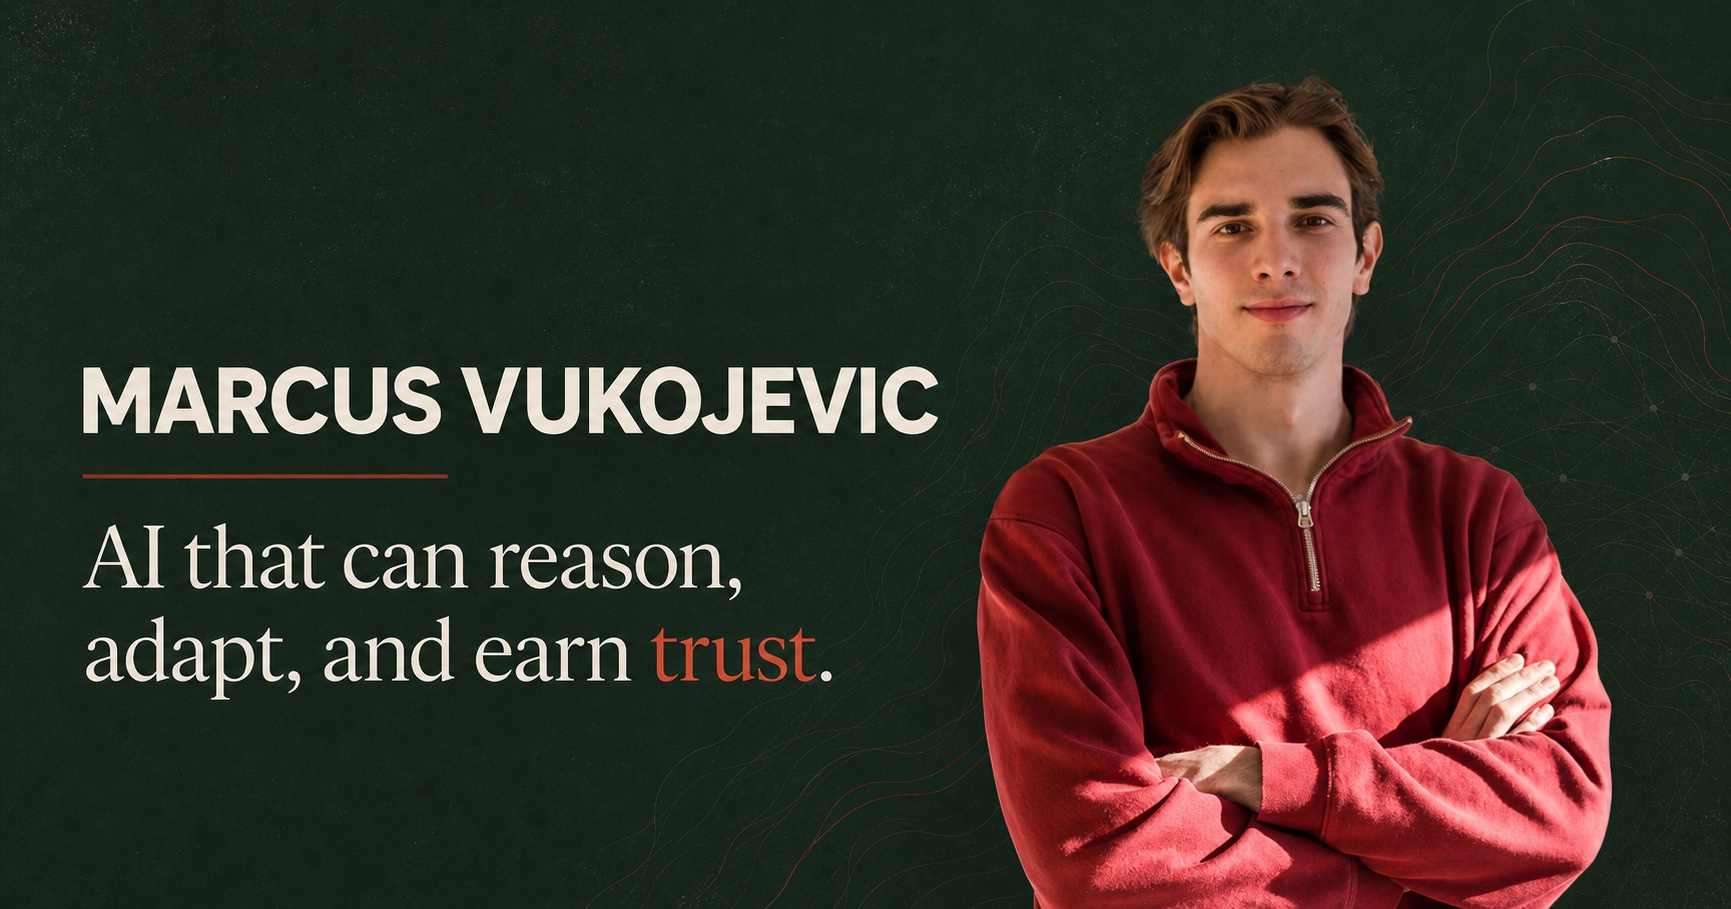
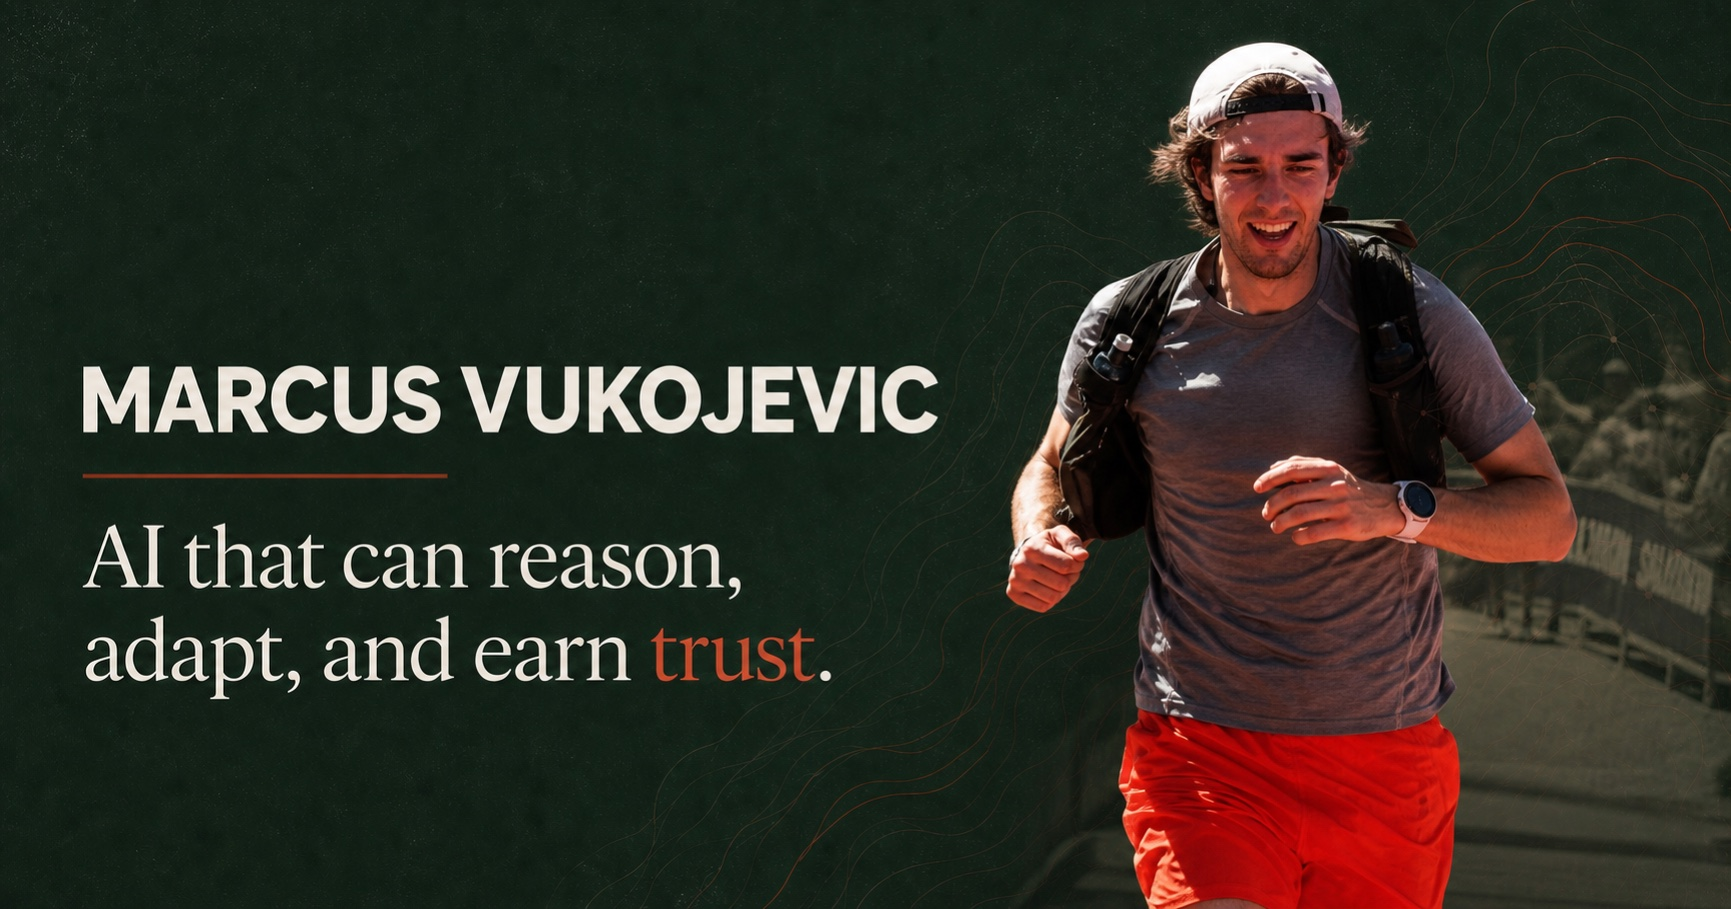
gj

diff --git a/_sass/layout/_marcus.scss b/_sass/layout/_marcus.scss
@@ -1,5 +1,5 @@
 /* ==========================================================================
-   MARCUS VUKOJEVIC — PERSONAL SITE
+   MARCUS VUKOJEVIC - PERSONAL SITE
    ========================================================================== */
 
 :root {
@@ -301,6 +301,20 @@ body {
   span { color: var(--mv-accent); font-weight: 800; }
 }
 
+.mv-home-card {
+  margin: clamp(2rem, 5vw, 4.5rem) 0 0;
+
+  img {
+    display: block;
+    width: 100%;
+    height: auto;
+    margin: 0;
+    border: 1px solid var(--mv-line);
+    border-radius: clamp(1rem, 2.5vw, 1.8rem);
+    box-shadow: var(--mv-shadow);
+  }
+}
+
 .mv-section {
   padding: clamp(4.8rem, 9vw, 8rem) 0;
   border-bottom: 1px solid var(--mv-line);
@@ -463,7 +477,7 @@ body {
 
   &--tone { color: #12271f; background: #dbe8d8; }
   &--space { color: #fff; background: #243f51; }
-  &--industry { color: #2d241c; background: #eadfcf; }
+  &--lidy { color: #2d241c; background: #eadfcf; }
 
   h3 {
     margin: auto 0 0.85rem;
@@ -728,6 +742,7 @@ body {
 
   &--tone { color: #14261f; background: #dbe8d8; }
   &--space { color: #fff; background: #233d4d; }
+  &--lidy { color: var(--mv-ink); background: var(--mv-sand); }
 
   header {
     display: flex;
@@ -747,10 +762,18 @@ body {
   gap: clamp(2rem, 6vw, 5rem);
   padding-top: clamp(2.4rem, 5vw, 4rem);
 
+  > div { min-width: 0; }
+
   h2 { margin: 0 0 1rem; color: inherit; font-size: clamp(3rem, 7vw, 6rem); letter-spacing: -0.07em; }
   p { color: inherit; opacity: 0.78; line-height: 1.7; }
   .mv-case-study__lead { margin: 0; font-family: Georgia, "Times New Roman", serif; font-size: 1.25rem; line-height: 1.45; }
   .mv-actions { margin-top: 1.7rem; }
+}
+
+@media (min-width: 701px) {
+  .mv-case-study--space .mv-case-study__body h2 {
+    font-size: clamp(2.5rem, 4vw, 4rem);
+  }
 }
 
 .mv-compact-grid,

diff --git a/tests/test_sync_publications.py b/tests/test_sync_publications.py
@@ -136,6 +136,9 @@ ARXIV_FIXTURE = b"""<?xml version="1.0" encoding="UTF-8"?>
 
 
 class PublicationSyncTests(unittest.TestCase):
+    def test_normalize_replaces_em_dashes(self):
+        self.assertEqual(sync_publications.normalize("hard\u2014decoded"), "hard - decoded")
+
     def test_remote_links_require_https_and_expected_hosts(self):
         self.assertEqual(
             sync_publications.trusted_https_url("https://openalex.org/W123", "openalex.org"),

diff --git a/scripts/sync_publications.py b/scripts/sync_publications.py
@@ -48,7 +48,8 @@ ARXIV_URL_PATTERN = re.compile(r"arxiv\.org/(?:abs|pdf)/(\d{4}\.\d{4,5})", re.IG
 def normalize(value: object | None) -> str:
     """Collapse formatting whitespace into a stable single-line value."""
 
-    return re.sub(r"\s+", " ", str(value or "")).strip()
+    text = str(value or "").replace("\u2014", " - ")
+    return re.sub(r"\s+", " ", text).strip()
 
 
 def normalize_title(value: object | None) -> str:

diff --git a/_pages/about.md b/_pages/about.md
@@ -1,8 +1,8 @@
 ---
 layout: home
 permalink: /
-title: "Marcus Vukojevic — AI Researcher & Engineer"
-excerpt: "PhD researcher in Artificial Intelligence at the University of Trento, working on trustworthy LLMs, symbolic reasoning, model efficiency, and applied AI."
+title: "Marcus Vukojevic | AI Researcher & Engineer"
+excerpt: "PhD researcher in Artificial Intelligence at the University of Trento, working on trustworthy LLMs, one-step graph generation, model efficiency, and applied AI."
 author_profile: false
 ---
 
@@ -10,7 +10,7 @@ author_profile: false
   <div class="mv-hero__copy">
     <p class="mv-eyebrow"><span aria-hidden="true"></span> PhD researcher · University of Trento</p>
     <h1 id="hero-title">Building AI that can <em>reason</em>, adapt, and earn trust.</h1>
-    <p class="mv-hero__lead">I’m Marcus Vukojevic, an AI researcher and full-stack engineer working where large language models, symbolic reasoning, model efficiency, and real-world systems meet.</p>
+    <p class="mv-hero__lead">I’m Marcus Vukojevic, an AI researcher and full-stack engineer working where large language models, one-step graph generation, model efficiency, and real-world systems meet.</p>
     <div class="mv-actions" aria-label="Primary links">
       <a class="mv-button mv-button--primary" href="/research/">Explore my research <span aria-hidden="true">→</span></a>
       <a class="mv-button mv-button--ghost" href="/publications/">Read publications</a>
@@ -23,11 +23,15 @@ author_profile: false
   </div>
   <figure class="mv-portrait">
     <div class="mv-portrait__frame">
-      <img src="/images/marcus-vukojevic.jpg" alt="Marcus Vukojevic standing in a university corridor" width="800" height="1000" fetchpriority="high">
+      <img src="/images/marcus-vukojevic.jpg" alt="Marcus Vukojevic crossing the finish line at a mountain race" width="1800" height="1200" fetchpriority="high">
     </div>
     <figcaption><span>01</span> From the Dolomites to dependable AI.</figcaption>
   </figure>
 </section>
+
+<figure class="mv-home-card">
+  <img src="/images/og.jpg" alt="Marcus Vukojevic running, with the message AI that can reason, adapt, and earn trust." width="1731" height="909" loading="lazy">
+</figure>
 
 <section class="mv-section mv-intro" aria-labelledby="intro-title">
   <div class="mv-section-heading">
@@ -36,7 +40,7 @@ author_profile: false
   </div>
   <div class="mv-intro__body">
     <p class="mv-large-copy">My path has always moved between academic research and products used by real people. That combination shapes the questions I ask: can an AI system be more reliable, more efficient, and still useful outside the lab?</p>
-    <p>I am a PhD student in Artificial Intelligence at the University of Trento. My current work focuses on grounded and trustworthy LLMs, including hallucination detection, probabilistic circuits, model compression, and neuro-symbolic reasoning. Alongside research, I have built AI products for legal services, linguistic minorities, smart agriculture, and industrial analysis.</p>
+    <p>I am a PhD student in Artificial Intelligence at the University of Trento. My current work focuses on trustworthy LLMs and one-step graph generation, including hallucination detection, probabilistic circuits, generative models, and model compression. Alongside research, I have built AI products for legal services, linguistic minorities, smart agriculture, and industrial analysis.</p>
     <a class="mv-text-link" href="/cv/">See my experience and education <span aria-hidden="true">↗</span></a>
   </div>
 </section>
@@ -45,7 +49,7 @@ author_profile: false
   <div class="mv-section-heading mv-section-heading--row">
     <div>
       <p class="mv-kicker">Research focus</p>
-      <h2 id="focus-title">Making intelligent systems more capable — and more accountable.</h2>
+      <h2 id="focus-title">Making intelligent systems more capable and more accountable.</h2>
     </div>
     <a class="mv-text-link" href="/research/">All research <span aria-hidden="true">→</span></a>
   </div>
@@ -64,9 +68,9 @@ author_profile: false
     </article>
     <article class="mv-focus-card">
       <span class="mv-card-number">03</span>
-      <h3>Structured reasoning</h3>
-      <p>Combining learning with logic, symbolic methods, and structured representations.</p>
-      <div class="mv-tags"><span>Neuro-symbolic AI</span><span>SAT</span></div>
+      <h3>One-step graph generation</h3>
+      <p>Developing models that generate complete graphs in a single neural step, with an emphasis on useful and valid structured outputs.</p>
+      <div class="mv-tags"><span>Graph generation</span><span>Generative models</span><span>Graph ML</span></div>
     </article>
     <article class="mv-focus-card mv-focus-card--wide">
       <span class="mv-card-number">04</span>
@@ -105,7 +109,7 @@ author_profile: false
     <article class="mv-project-card mv-project-card--tone">
       <div class="mv-project-card__top"><span>Language technology</span><span>01</span></div>
       <h3>Tone</h3>
-      <p>Translation, grammar support, and micro-lessons for Ladin — trained with a custom corpus shaped together with local speakers.</p>
+      <p>Translation, grammar support, and micro-lessons for Ladin, trained with a custom corpus shaped together with local speakers.</p>
       <a href="https://iltone.com/" aria-label="Visit the Tone website">Visit Tone <span aria-hidden="true">↗</span></a>
     </article>
     <article class="mv-project-card mv-project-card--space">
@@ -114,11 +118,11 @@ author_profile: false
       <p>An ESA Academy-selected Space Rider experiment. I lead software and AI work for clustering gamma-ray events in orbit.</p>
       <a href="https://www.esa.int/Education/ESA_Academy_Experiments_programme/Meet_the_Team_SPaRKLE" aria-label="Read about SPaRKLE on the ESA website">Read on ESA <span aria-hidden="true">↗</span></a>
     </article>
-    <article class="mv-project-card mv-project-card--industry">
-      <div class="mv-project-card__top"><span>Applied AI</span><span>03</span></div>
-      <h3>AI in production</h3>
-      <p>LLM products and full-stack systems for legal services, industrial analysis, smart agriculture, and local communities.</p>
-      <a href="/cv/">Experience <span aria-hidden="true">→</span></a>
+    <article class="mv-project-card mv-project-card--lidy">
+      <div class="mv-project-card__top"><span>Hospitality AI · Live</span><span>03</span></div>
+      <h3>Lidy</h3>
+      <p>Multilingual, QR-based AI assistance for hospitality guests, available 24/7 with property information and local guidance.</p>
+      <a href="https://lidy.guide/">Open Lidy <span aria-hidden="true">↗</span></a>
     </article>
   </div>
 </section>
@@ -129,7 +133,7 @@ author_profile: false
     <h2 id="recognition-title">Built with teams, tested in the world.</h2>
   </div>
   <div class="mv-recognition__list">
-    <a href="https://www.esa.int/Education/ESA_Academy_Experiments_programme/Meet_the_Team_SPaRKLE"><span class="mv-year">2024—27</span><strong>ESA Academy Experiments Programme</strong><span>SPaRKLE · Space Rider</span><i aria-hidden="true">↗</i></a>
+    <a href="https://www.esa.int/Education/ESA_Academy_Experiments_programme/Meet_the_Team_SPaRKLE"><span class="mv-year">2024-27</span><strong>ESA Academy Experiments Programme</strong><span>SPaRKLE · Space Rider</span><i aria-hidden="true">↗</i></a>
     <a href="https://mag.unitn.it/innovazione/103713/la-industrial-ai-challenge"><span class="mv-year">2021</span><strong>University of Trento AI Challenge</strong><span>Winning team · predictive maintenance</span><i aria-hidden="true">↗</i></a>
     <a href="https://www.ladige.it/cronaca/2016/09/22/prestigiosa-vittoria-trentina-alla-nasa-challenge-2016-1.2662682"><span class="mv-year">2016</span><strong>NASA World Wind Challenge</strong><span>First prize · Sunrise</span><i aria-hidden="true">↗</i></a>
   </div>

diff --git a/_pages/cv.md b/_pages/cv.md
@@ -19,15 +19,15 @@ author_profile: true
   <header><p class="mv-kicker">01</p><h2 id="education-title">Education</h2></header>
   <div class="mv-timeline">
     <article>
-      <time>Nov 2025—Present</time>
-      <div><h3>PhD in Artificial Intelligence</h3><p class="mv-cv-place">University of Trento · Scholarship recipient</p><p>Research on trustworthy and grounded language models, symbolic reasoning, hallucination detection, and efficient AI.</p></div>
+      <time>Nov 2025 - Present</time>
+      <div><h3>PhD in Artificial Intelligence</h3><p class="mv-cv-place">University of Trento · Scholarship recipient</p><p>Research on trustworthy language models, hallucination detection, one-step graph generation, and efficient AI.</p></div>
     </article>
     <article>
       <time>MSc · 110/110</time>
       <div><h3>Artificial Intelligence Systems</h3><p class="mv-cv-place">University of Trento</p><p>Advanced work across SAT and logic, genetic programming, BioAI, graph neural networks, and computer vision. Research included LLM pruning and graph-regression benchmarks.</p></div>
     </article>
     <article>
-      <time>Sep 2017—Mar 2022</time>
+      <time>Sep 2017 - Mar 2022</time>
       <div><h3>BSc in Computer Science</h3><p class="mv-cv-place">University of Trento</p><p>Software development and programming, complemented by international innovation, entrepreneurship, and technology programmes.</p></div>
     </article>
   </div>
@@ -37,19 +37,19 @@ author_profile: true
   <header><p class="mv-kicker">02</p><h2 id="experience-title">Experience</h2></header>
   <div class="mv-timeline">
     <article>
-      <time>Nov 2022—Present</time>
+      <time>Nov 2022 - Present</time>
       <div><h3>Full-stack AI Consultant</h3><p class="mv-cv-place">Independent · including work with Advais</p><p>Designing LLM products, web platforms, and applied AI systems for legal services, industrial analysis, smart agriculture, and linguistic minorities. Clients and collaborators include Niris, A22, and SmallCodes.</p></div>
     </article>
     <article>
-      <time>Sep 2021—Oct 2022</time>
+      <time>Sep 2021 - Oct 2022</time>
       <div><h3>Software Engineer</h3><p class="mv-cv-place">Niris Srl</p><p>Led AI initiatives for water-treatment analysis and developed smart-agriculture tools supporting sustainable, data-informed operations.</p></div>
     </article>
     <article>
-      <time>Apr 2022—Sep 2022</time>
+      <time>Apr 2022 - Sep 2022</time>
       <div><h3>Chief Technology Officer</h3><p class="mv-cv-place">SynergicFoods</p><p>Directed development of a mobile application for a London-based startup, with responsibility for product functionality and user engagement.</p></div>
     </article>
     <article>
-      <time>Jul 2019—Aug 2019</time>
+      <time>Jul 2019 - Aug 2019</time>
       <div><h3>AI Researcher</h3><p class="mv-cv-place">Fondazione Bruno Kessler</p><p>Contributed to AI frameworks for deterministic planning domains and expanded practical machine-learning research experience.</p></div>
     </article>
   </div>
@@ -67,10 +67,10 @@ author_profile: true
 <section class="mv-cv-section" aria-labelledby="skills-title">
   <header><p class="mv-kicker">04</p><h2 id="skills-title">Skills & languages</h2></header>
   <div class="mv-skills-grid">
-    <div><h3>Research</h3><p>LLMs · probabilistic circuits · symbolic reasoning · graph neural networks · SAT · genetic programming · computer vision</p></div>
+    <div><h3>Research</h3><p>LLMs · probabilistic circuits · one-step graph generation · graph neural networks · generative models · computer vision</p></div>
     <div><h3>Engineering</h3><p>Full-stack AI systems · product development · data analysis · technical roadmapping · model deployment</p></div>
     <div><h3>Leadership</h3><p>Strategic planning · team leadership · communication · creative problem solving</p></div>
-    <div><h3>Languages</h3><p>Italian — native<br>English, Serbo-Croatian, Ladin — advanced<br>German — basic</p></div>
+    <div><h3>Languages</h3><p>Italian: native<br>English, Serbo-Croatian, Ladin: advanced<br>German: basic</p></div>
   </div>
 </section>
 

diff --git a/_pages/research.md b/_pages/research.md
@@ -2,20 +2,20 @@
 layout: single
 title: "Research"
 permalink: /research/
-excerpt: "Research on trustworthy language models, model efficiency, structured reasoning, and graph machine learning."
+excerpt: "Research on trustworthy language models, model efficiency, one-step graph generation, and graph machine learning."
 author_profile: true
 ---
 
 <div class="mv-page-intro">
   <p class="mv-kicker">Research</p>
-  <p class="mv-page-lead">I study how intelligent systems can become more reliable, efficient, and structurally aware — without losing the flexibility that makes modern AI useful.</p>
+  <p class="mv-page-lead">I study how intelligent systems can become more reliable, efficient, and structurally aware without losing the flexibility that makes modern AI useful.</p>
 </div>
 
 <div class="mv-research-themes">
   <article>
     <span>01</span>
     <h2>Trustworthy & grounded LLMs</h2>
-    <p>My PhD work at the University of Trento investigates ways to detect when a language model leaves the factual manifold and to ground its behaviour through structured and symbolic reasoning. The goal is selective intervention: correct what is unreliable while preserving what already works.</p>
+    <p>My PhD work at the University of Trento investigates ways to detect when a language model leaves the factual manifold. The goal is selective intervention: correct what is unreliable while preserving what already works.</p>
     <div class="mv-tags"><span>Hallucination detection</span><span>Grounding</span><span>Probabilistic circuits</span></div>
   </article>
   <article>
@@ -26,9 +26,9 @@ author_profile: true
   </article>
   <article>
     <span>03</span>
-    <h2>Neuro-symbolic & structured reasoning</h2>
-    <p>My background in SAT, logic, genetic programming, and deterministic planning informs a broader question: how can learned systems use explicit structure to reason more consistently? Related work also explores search-based pruning and tensor-decomposition problems.</p>
-    <div class="mv-tags"><span>Symbolic reasoning</span><span>SAT</span><span>Search</span></div>
+    <h2>One-step graph generation</h2>
+    <p>I explore models that produce complete graphs in one neural evaluation. I am interested in how direct generation can support useful and valid outputs across structured domains.</p>
+    <div class="mv-tags"><span>Graph generation</span><span>Generative models</span><span>Structured data</span></div>
   </article>
   <article>
     <span>04</span>
@@ -51,7 +51,7 @@ author_profile: true
       <div><h3><a href="https://arxiv.org/abs/2605.05953">Hallucination as an Anomaly: Dynamic Intervention via Probabilistic Circuits</a></h3><p>PCNET detects anomalous hidden states and gates corrective decoding only when needed.</p></div>
     </article>
     <article>
-      <time datetime="2025">2025—26</time>
+      <time datetime="2025">2025-26</time>
       <div><h3><a href="https://arxiv.org/abs/2505.23875">A Benchmark Dataset for Graph Regression with Homogeneous and Multi-Relational Variants</a></h3><p>RelSC provides program-graph benchmarks for homogeneous and heterogeneous graph regression; released on arXiv in 2025 and published in DMLR in 2026.</p></div>
     </article>
   </div>
@@ -63,6 +63,6 @@ author_profile: true
     <p class="mv-kicker">Collaboration</p>
     <h2 id="collaboration-title">Good research gets better in the open.</h2>
   </div>
-  <p>I am interested in collaborations around factuality, efficient LLMs, neuro-symbolic methods, and applied AI systems. If your question sits between research and implementation, we will probably have plenty to discuss.</p>
+  <p>I am interested in collaborations around factuality, efficient LLMs, one-step graph generation, and applied AI systems. If your question sits between research and implementation, we will probably have plenty to discuss.</p>
   <a class="mv-text-link" href="mailto:marcusvuk@gmail.com">Start a conversation <span aria-hidden="true">↗</span></a>
 </section>

diff --git a/_pages/projects.md b/_pages/projects.md
@@ -2,7 +2,7 @@
 layout: single
 title: "Projects"
 permalink: /projects/
-excerpt: "Selected projects spanning language technology, space research, industrial AI, and production LLM systems."
+excerpt: "Selected projects spanning hospitality AI, language technology, space research, industrial AI, and production LLM systems."
 author_profile: true
 ---
 
@@ -43,6 +43,23 @@ author_profile: true
         <div class="mv-actions">
           <a class="mv-button mv-button--light" href="https://www.esa.int/Education/ESA_Academy_Experiments_programme/Meet_the_Team_SPaRKLE">ESA profile <span aria-hidden="true">↗</span></a>
           <a class="mv-text-link mv-text-link--light" href="https://pressroom.unitn.it/comunicato-stampa/ready-space">UniTrento story</a>
+        </div>
+      </div>
+    </div>
+  </article>
+
+  <article class="mv-case-study mv-case-study--lidy">
+    <header><p>Hospitality AI · Live product</p><span>03</span></header>
+    <div class="mv-case-study__body">
+      <div>
+        <h2>Lidy</h2>
+        <p class="mv-case-study__lead">A multilingual AI guest assistant for hotels, apartments, and B&amp;Bs.</p>
+      </div>
+      <div>
+        <p>Guests access property-specific help through room QR codes and receive instant, 24/7 answers about services, practical stay information, and local recommendations.</p>
+        <p>Accommodation teams can create property profiles, generate personalized QR codes, and integrate their own local content and partners.</p>
+        <div class="mv-actions">
+          <a class="mv-button mv-button--primary" href="https://lidy.guide/">Open Lidy <span aria-hidden="true">↗</span></a>
         </div>
       </div>
     </div>

diff --git a/_pages/beyond-ai.md b/_pages/beyond-ai.md
@@ -2,7 +2,7 @@
 layout: single
 title: "Beyond AI"
 permalink: /beyond-ai/
-excerpt: "Mountain running, skyrunning, climbing, and ice hockey — the places where I reset away from research."
+excerpt: "Mountain running, skyrunning, climbing, and ice hockey: the places where I reset away from research."
 author_profile: true
 ---
 
@@ -38,6 +38,6 @@ author_profile: true
     <div class="mv-passion-card__icon" aria-hidden="true"><i class="fas fa-hockey-puck"></i></div>
     <p class="mv-kicker">Ice hockey</p>
     <h2>Still at home on the ice.</h2>
-    <p>I spent many years playing hockey in Val di Fassa. I now play with the amateur hockey community in Trento — still drawn to the speed, teamwork, and instinct of the game.</p>
+    <p>I spent many years playing hockey in Val di Fassa. I now play with the amateur hockey community in Trento, still drawn to the speed, teamwork, and instinct of the game.</p>
   </article>
 </div>
